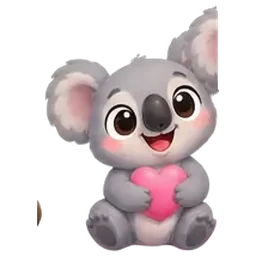
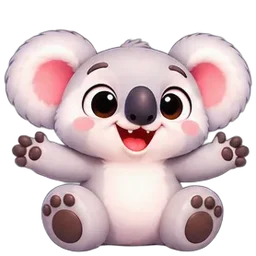
Add Sona, Pip and Fenn expressions and the new Hugo and Kit art; use full-body poses everywhere

diff --git a/index.html b/index.html
@@ -40,8 +40,7 @@ button:disabled{cursor:default}
 :root[data-theme="dark"] .ut{color:color-mix(in srgb,var(--u) 45%,#fff)}
 .tint{background:color-mix(in srgb,var(--u) 13%,var(--card))}
 .m svg,.m img{width:100%;height:100%;display:block}
-.m img{border-radius:50%;object-fit:cover}
-.m img.pose{border-radius:0;object-fit:contain}
+.m img{object-fit:contain}
 
 /* top bar */
 .top{position:sticky;top:0;z-index:5;background:color-mix(in srgb,var(--bg) 92%,transparent);backdrop-filter:blur(8px);-webkit-backdrop-filter:blur(8px);border-bottom:1px solid var(--line)}
@@ -254,8 +253,8 @@ input[type=range]{width:100%;accent-color:var(--brand)}
    stored in ./stems/<song>/ (see SONGS below).
    ============================================================ */
 
-// Round portraits cut from the team picture (img/team.webp).
-const MASCOTS = Object.fromEntries(['sona', 'pip', 'fenn', 'kit', 'hugo', 'bram', 'echo', 'verb', 'penny'].map(k=>[k, `<img src="img/m-${k}.webp" width="256" height="256" alt="" decoding="async">`]));
+// Every character's default look: the happy pose from their expression sheet.
+const MASCOTS = Object.fromEntries(['sona','pip','fenn','kit','hugo','bram','echo','verb','penny'].map(k=>[k, `<img class="pose" src="img/m-${k}-happy.webp" width="256" height="256" alt="" decoding="async">`]));
 
 /* ---------- icons ---------- */
 const I = {
@@ -274,8 +273,8 @@ const I = {
   share:'<svg viewBox="0 0 24 24" fill="none" stroke="currentColor" stroke-width="2.2" stroke-linecap="round" stroke-linejoin="round"><path d="M10 14a4 4 0 0 0 5.7 0l3-3a4 4 0 0 0-5.7-5.7l-1 1"/><path d="M14 10a4 4 0 0 0-5.7 0l-3 3a4 4 0 0 0 5.7 5.7l1-1"/></svg>',
   sliders:'<svg viewBox="0 0 24 24" fill="none" stroke="currentColor" stroke-width="2.2" stroke-linecap="round"><path d="M6 3v18M12 3v18M18 3v18"/><rect x="3.5" y="13" width="5" height="3" rx="1" fill="currentColor"/><rect x="9.5" y="6" width="5" height="3" rx="1" fill="currentColor"/><rect x="15.5" y="15" width="5" height="3" rx="1" fill="currentColor"/></svg>'
 };
-// Characters with an expression sheet (img/m-<id>-<mood>.webp). The rest use their round portrait for every mood.
-const POSES = ['kit','hugo','bram','echo','verb','penny'];
+// Each character has six expressions (img/m-<id>-<mood>.webp).
+const POSES = ['sona','pip','fenn','kit','hugo','bram','echo','verb','penny'];
 const MOODS = ['happy','celebrating','thinking','encouraging','surprised','sleeping'];
 const hasPose = (id, mood) => !!mood && POSES.includes(id) && MOODS.includes(mood);
 const mascotArt = (id, mood) => hasPose(id,mood) ? `<img class="pose" src="img/m-${id}-${mood}.webp" width="256" height="256" alt="" decoding="async">` : (MASCOTS[id]||'');
